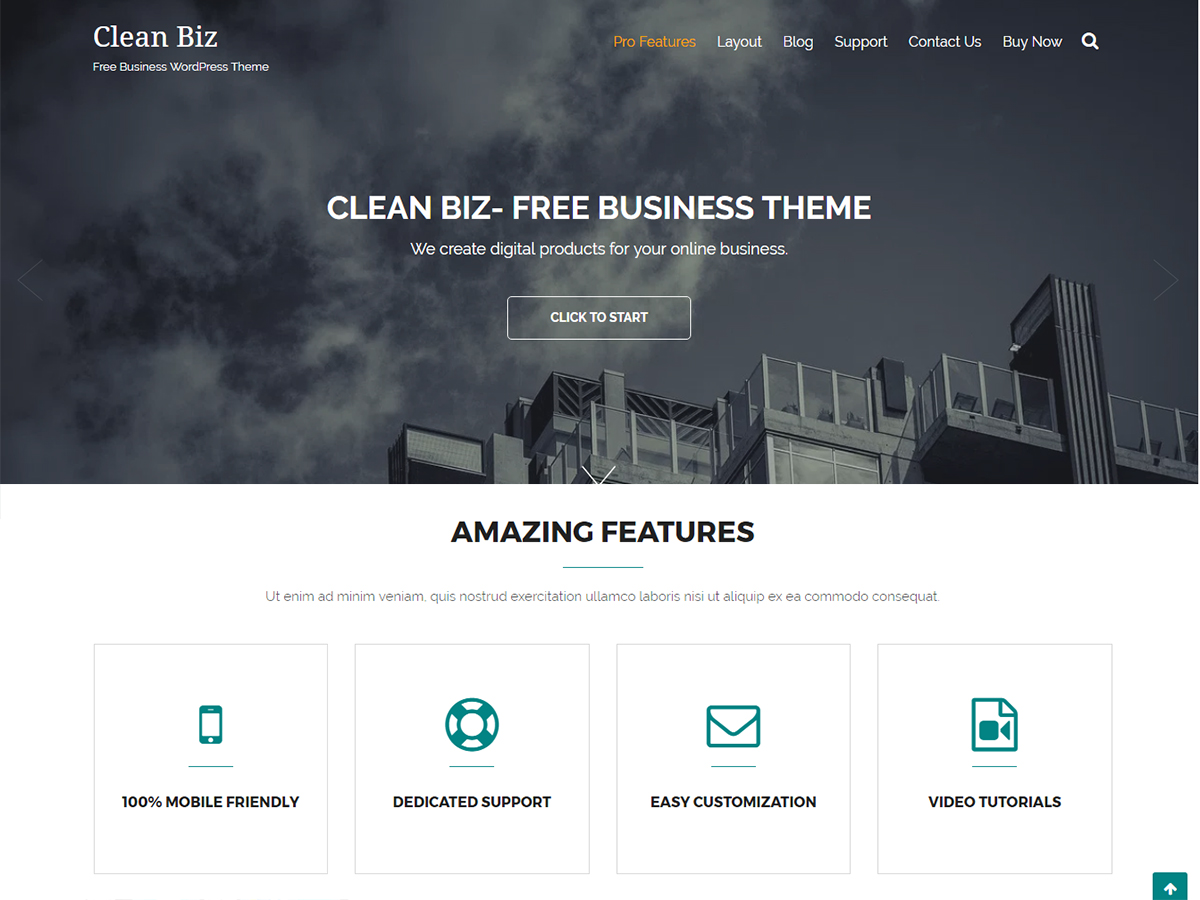
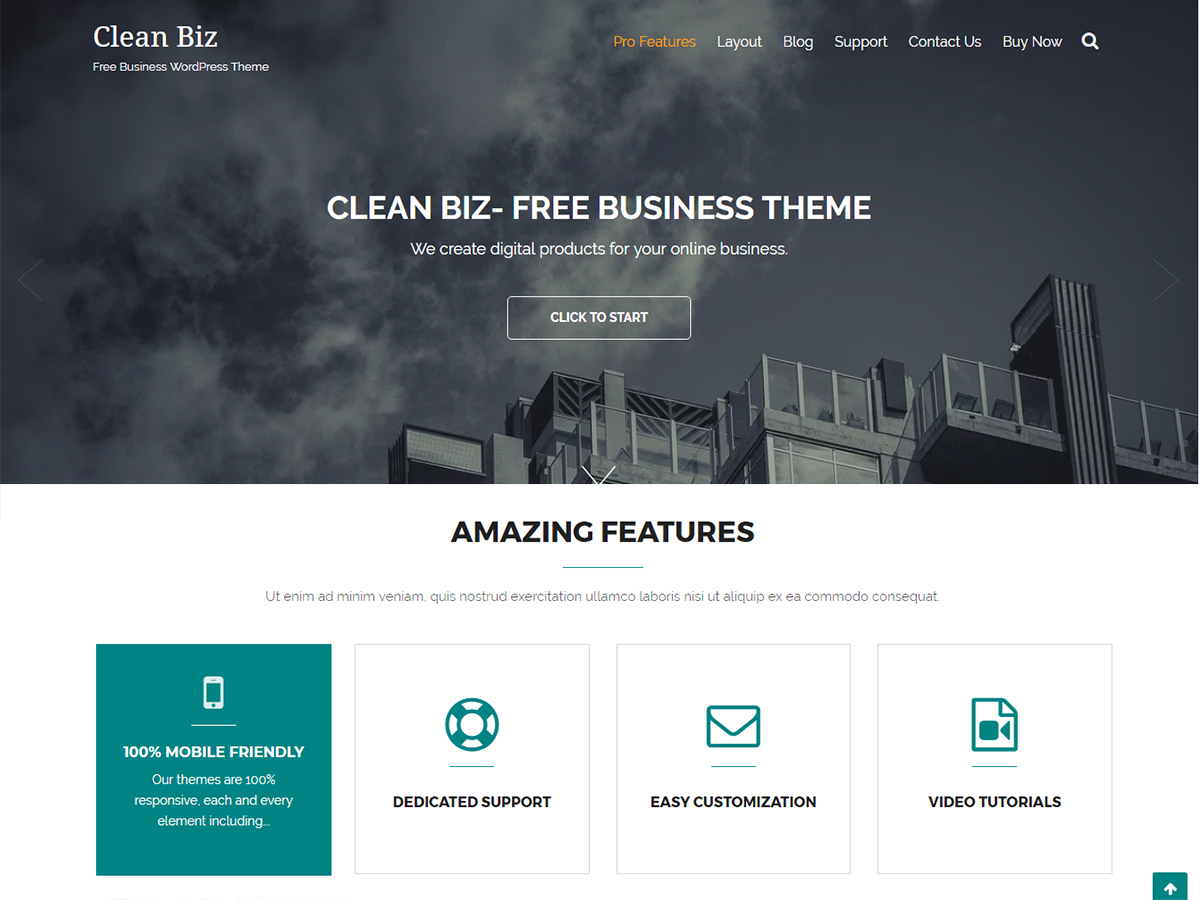
down arrow remove and screenshot style hange

Changed region(s): [[0.0617, 0.7156, 0.2775, 0.9956]]

diff --git a/inc/hooks/homepage-slider.php b/inc/hooks/homepage-slider.php
@@ -203,17 +203,7 @@ if ( ! function_exists( 'clean_biz_featured_home_slider' ) ) :
                 }
                 ?>
             </div>
-            <div class="cycle-pager" id="slide-pager"></div>
-            <?php if( 1 == $clean_biz_customizer_all_values['clean-biz-home-service-enable'] ){ ?>
-                <div id="go-bottom">
-                    <a href="#features">
-                        <svg width="60px" height="80px" viewBox="0 0 50 80" xml:space="preserve">
-                        <polyline fill="none" stroke="#FFFFFF" stroke-width="3" stroke-linecap="round" stroke-linejoin="round" points="
-                        45.63,75.8 0.375,38.087 45.63,0.375 "/>
-                      </svg>
-                    </a>
-                </div>
-            <?php } ?>
+            <div class="cycle-pager" id="slide-pager"></div>            
         </div>
     </section>
     <?php
